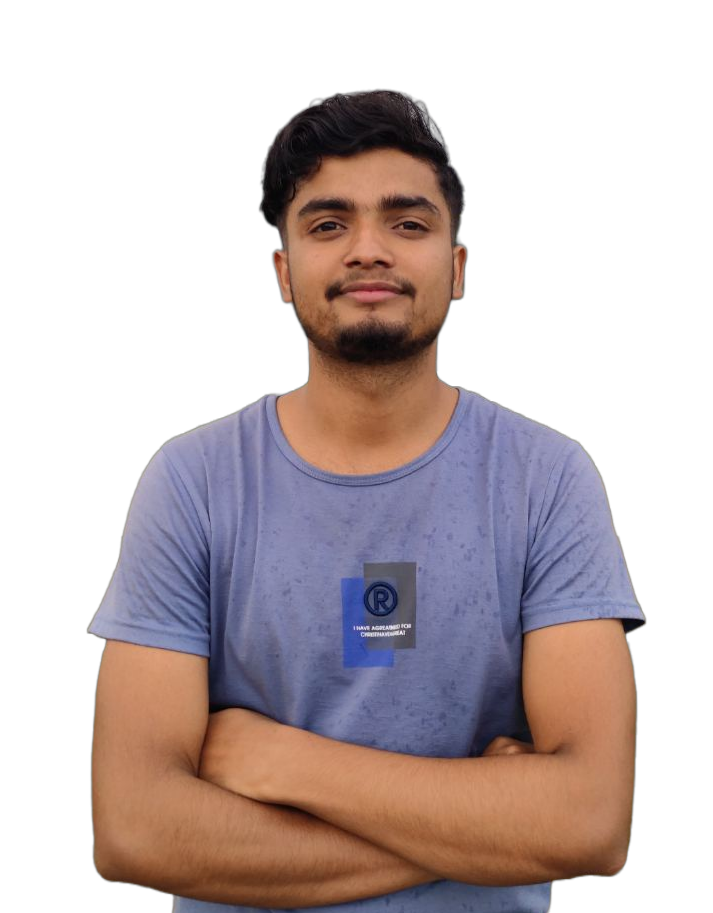
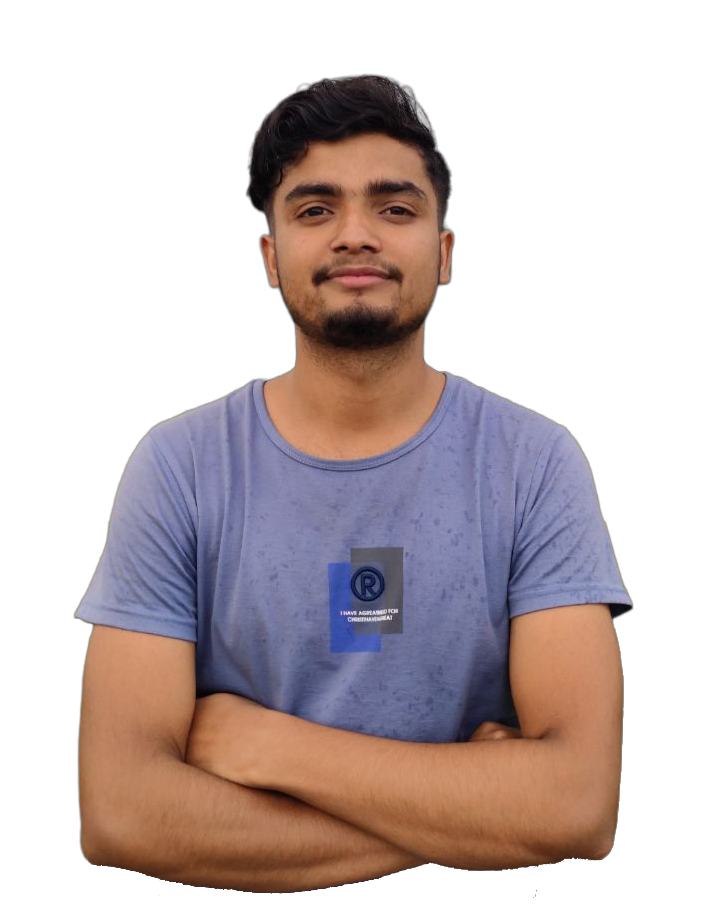
photo changed

Changed region(s): [[0.0926, 0.0613, 0.9257, 1.0], [0.8022, 0.4907, 0.8331, 0.5214]]

diff --git a/flutter_service_worker.js b/flutter_service_worker.js
@@ -3,9 +3,10 @@ const MANIFEST = 'flutter-app-manifest';
 const TEMP = 'flutter-temp-cache';
 const CACHE_NAME = 'flutter-app-cache';
 const RESOURCES = {
-  ".git/COMMIT_EDITMSG": "9bdfe886db16e2ac7802a3c27950378e",
+  ".git/COMMIT_EDITMSG": "6fe839244280fff24c1991311049c7fc",
 ".git/config": "78451280ea859203bc1332af422992ad",
 ".git/description": "a0a7c3fff21f2aea3cfa1d0316dd816c",
+".git/FETCH_HEAD": "a65866c111343b40178456fed70a6fb5",
 ".git/HEAD": "cf7dd3ce51958c5f13fece957cc417fb",
 ".git/hooks/applypatch-msg.sample": "ce562e08d8098926a3862fc6e7905199",
 ".git/hooks/commit-msg.sample": "579a3c1e12a1e74a98169175fb913012",
@@ -20,18 +21,21 @@ const RESOURCES = {
 ".git/hooks/prepare-commit-msg.sample": "2b5c047bdb474555e1787db32b2d2fc5",
 ".git/hooks/push-to-checkout.sample": "c7ab00c7784efeadad3ae9b228d4b4db",
 ".git/hooks/update.sample": "647ae13c682f7827c22f5fc08a03674e",
-".git/index": "7bf22cf7467faa5bdb8c22a497a01633",
+".git/index": "5a1cd601d6c7e996a4240c5fc298d6af",
 ".git/info/exclude": "036208b4a1ab4a235d75c181e685e5a3",
-".git/logs/HEAD": "136888cb84d83233f21fc91cf081ea7e",
-".git/logs/refs/heads/main": "c890bff2228c7e4477d27fe1b3d4ae93",
-".git/logs/refs/remotes/origin/main": "456ba91ccab4d3ce27d8cfa2e2a6508c",
+".git/logs/HEAD": "eee7354c150d9d57c0f9834657c66ffb",
+".git/logs/refs/heads/main": "7e58b0b10cb321ecf79253df74680614",
+".git/logs/refs/remotes/origin/main": "1de6a5763b3108bd4d5fdc1ac84cef52",
 ".git/objects/01/013a26148455fb810b0cfb3114f453b0c5e0ae": "dbbfc43820b751f4666ff8398d3bb2d9",
+".git/objects/07/bedb38807cfb2c7f1c042ff565540e2654d8b1": "519cea2c41e98fca2bc26d90a9726382",
 ".git/objects/0a/d25ef304a6f9dc06d247eb6b4f60354b83aba8": "e964d41f610e3f09f5b01dbaefcf9ffd",
 ".git/objects/0e/d91aed70c219451afa5d86d8148626a63632ea": "7b6074e88e11d947eae0a164069eb669",
 ".git/objects/10/73fa573c53bf1df21eae34e980dd180a9cc210": "31c3df9983a69501dde673409e746c92",
+".git/objects/14/689ed2c259f6c76ea3e2e12507b3c151c9b7b0": "de198eb1f8cd09d46cee8076b5e81537",
 ".git/objects/14/78dda7cd6a4295810aac99f5115e21b9a72f7d": "b4e069ede647bb59972af7dd17b93b2b",
 ".git/objects/16/7494e6435f38be767aa6ef0582474d82e02fda": "9c073f2c3b9c31009edb64520af31d52",
 ".git/objects/17/5af357c6f8c92fd7a178a191f785b04ebc490e": "ca13c69ef375dff836f5a9277cf3e837",
+".git/objects/19/4d807df7d41cde7558315423d1ace3ecfad64a": "4616c3680a820eeba9a6ad3a9a96d74b",
 ".git/objects/1a/b847b818dec389fb43fb9da80637c02e27d3d3": "8af286f2a069534106d53e8c037b0a4a",
 ".git/objects/1b/2ce5f52e25dec39b27bc8ba118b404e1d61dc4": "821748122cf36cb1a936b35a5a3dcc8a",
 ".git/objects/1d/de6211c8f30be766c01dd52605102061f0ed67": "3d8df711f4896f7f86a04d30d2195efb",
@@ -43,6 +47,7 @@ const RESOURCES = {
 ".git/objects/2b/c597ba12a7bc8566d7821dab46a001ff7b53ad": "01c63299f058d0824807188131f1f8d2",
 ".git/objects/2f/e0ae0f28a3e16f7d182e241cdd1116c11526d8": "ac3bf4a8c27d8a46a1f7b2a1fefd399f",
 ".git/objects/3e/4d55529a2d99fb1ea43f4485d42619df965751": "5a9d5a1fe185d89022e24c813152bf82",
+".git/objects/3f/61eeccd44dc8a003f4b0ad4fff166c8b7a0b0d": "bbf4c9fd0d2573f4711607946e152f02",
 ".git/objects/3f/7682a6e830e34f27e98a37d386fa63b2985df4": "1acac7a08041d4c873c649de6751474c",
 ".git/objects/47/818cc125f4b61ab58210edd3c06f8c437f90ba": "ce1161c7701ab241f737dc9b927be76d",
 ".git/objects/4b/77dcccaaab296521866ee23ebf18aab0eb7dd5": "a8f8b1a7d3a739fbe4fec871c035c2ed",
@@ -59,6 +64,8 @@ const RESOURCES = {
 ".git/objects/81/0dae8030361c80a88128c83b168211d4d3d4f1": "99ea52e8a50d9bef23ba29cb929ae65b",
 ".git/objects/84/0855134412a3c6123e49801af1a5acb32b46f3": "b6bc117245d922d48a4673b40ed65ca7",
 ".git/objects/85/07e8a7b2c6f4ef833d4eee4f9bf65cb0d8171b": "778abbfd05750626a43c6f1a578e410f",
+".git/objects/8a/2641d732b7a532f3af34b97943666a3004e3c1": "e216c1212684aa22cfd85276f17169fd",
+".git/objects/8b/c169404c2f2b1143e7f791aa57ca48cbd7f1f8": "6176dbf2f489f83601261eeb5fa707a8",
 ".git/objects/92/3648391148177c3d16f149f0f0b16a2df61289": "d9c716a0b1b22445b7c5d47ef65953ae",
 ".git/objects/93/175bd0c634981edf11c22c340f0ba55cfe3921": "2059d98c8210c1e88e0ea4110af4252e",
 ".git/objects/97/8746b5424d1212460133977131fc5ef0971abb": "3cc094294d4d3275ff02b12eff5e10c3",
@@ -87,11 +94,15 @@ const RESOURCES = {
 ".git/objects/e2/750ee8f04253212e8f239ccb457f37d1fc3048": "d4f69d05a9fd2feca5516935360b0a89",
 ".git/objects/e5/951dfb943474a56e611d9923405cd06c2dd28d": "c6fa51103d8db5478e1a43a661f6c68d",
 ".git/objects/e6/314dcfabcdbcc0497a47b374bc5c3180eb72cf": "a390ed06fcaa53bafc3850e7573ac887",
+".git/objects/e7/6840047d4ad4d5c703bc7c72ecea64be91474e": "c8526914f70385192a95933e505809b9",
 ".git/objects/e7/d564b849a90ff0ad103bc3a955b908d1e94fb1": "951766af26745cb3071b9602eb286888",
 ".git/objects/ed/d636438fa53a58435e4eab422f3cf164fc3ca2": "4f95ceaec51994f91d48218a63437b54",
+".git/objects/f1/25cb746a95e105fd83ae8340341bde7b3a1ecf": "9f1b97d7b9fd5953fcc2f9fb2f09dcfc",
+".git/objects/f1/5844a19da6653f47b16919357cc75a562a9e2e": "15b343d00c6ee982fa648384d31c4ac6",
 ".git/objects/f8/9fc9f854f31dfa1481d31d1b19c25816da4947": "6e21873c815076cd177381687146928c",
-".git/refs/heads/main": "15086076e963c1657895330e1830c7bb",
-".git/refs/remotes/origin/main": "15086076e963c1657895330e1830c7bb",
+".git/ORIG_HEAD": "78dee83f937a583f5d0c5de48a6357a6",
+".git/refs/heads/main": "c1a1cc41ca3c32216bf8927917170a96",
+".git/refs/remotes/origin/main": "c1a1cc41ca3c32216bf8927917170a96",
 "assets/AssetManifest.json": "82f9996d1151898717ea79a9e2060028",
 "assets/assets/fonts/Oswald-Bold.ttf": "452bfeb5bf78e71cc3cd6e720ac24bd4",
 "assets/assets/fonts/Oswald-Light.ttf": "6ee38c23e5466cb24e844b1c345d610d",
@@ -100,7 +111,7 @@ const RESOURCES = {
 "assets/assets/fonts/Poppins-Regular.ttf": "093ee89be9ede30383f39a899c485a82",
 "assets/assets/images/love_calculator.jpg": "fc251b7c7e91463e75bd277e47ec40e4",
 "assets/assets/images/real_estate.jpg": "dc1291bc5951c22fbacb0dd4666693eb",
-"assets/assets/images/shishir.png": "68f1fc46c8811a107b606fa3b38f2d1b",
+"assets/assets/images/shishir.png": "b96d17dadd927c13e0b30fad6591349a",
 "assets/assets/images/tick.json": "51b999225476edb882b55e2b4655e76f",
 "assets/FontManifest.json": "d94313928c098a8c367b76d41065aa19",
 "assets/fonts/MaterialIcons-Regular.otf": "95db9098c58fd6db106f1116bae85a0b",
@@ -120,10 +131,11 @@ const RESOURCES = {
 "flutter.js": "f85e6fb278b0fd20c349186fb46ae36d",
 "icons/Icon-192.png": "695371323cbc7158ca98056ff77bda61",
 "icons/Icon-512.png": "adffe52aef0b15654f33b0b02ae09cf7",
-"index.html": "97f79be7b8e53027a4afe0e7d5647099",
-"/": "97f79be7b8e53027a4afe0e7d5647099",
+"index.html": "c055fd5de0be3810908abd9a2676ac96",
+"/": "c055fd5de0be3810908abd9a2676ac96",
 "main.dart.js": "85947d44985691e0830b10310e1babac",
 "manifest.json": "36f940daa3459872fe5c376faf09f66e",
+"README.md": "1238ca338c12fceeee4b79f76cc9bff2",
 "version.json": "43301b7f5019a16526c827edd6e1762b"
 };
 

diff --git a/index.html b/index.html
@@ -15,6 +15,7 @@
     the `--base-href` argument provided to `flutter build`.
   -->
   <base href="https://shishirrijal.github.io/">
+  <!-- <base href="/"> -->
 
   <meta charset="UTF-8">
   <meta content="IE=Edge" http-equiv="X-UA-Compatible">
@@ -34,7 +35,7 @@
 
   <script>
     // The value below is injected by flutter build, do not touch.
-    var serviceWorkerVersion = '2009051612';
+    var serviceWorkerVersion = '983464881';
   </script>
   <!-- This script adds the flutter initialization JS code -->
   <script src="flutter.js" defer></script>
